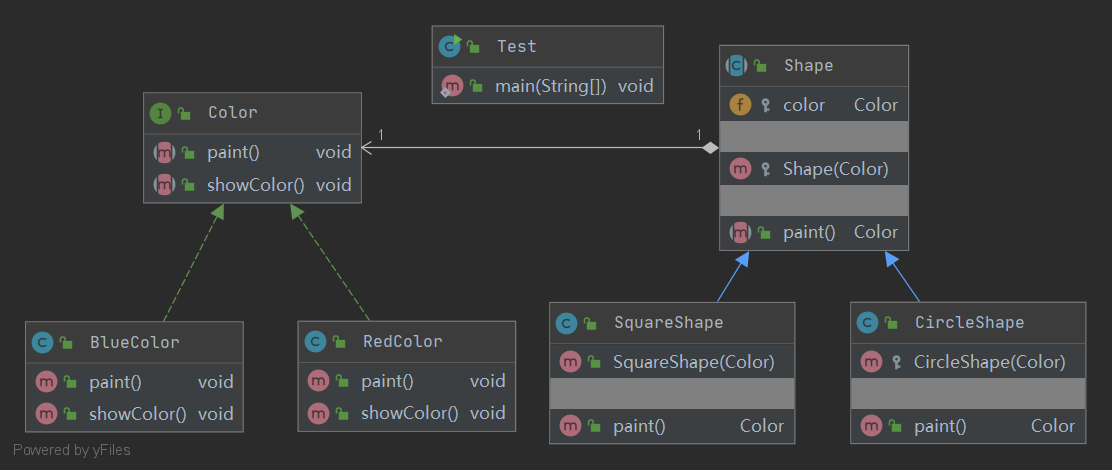
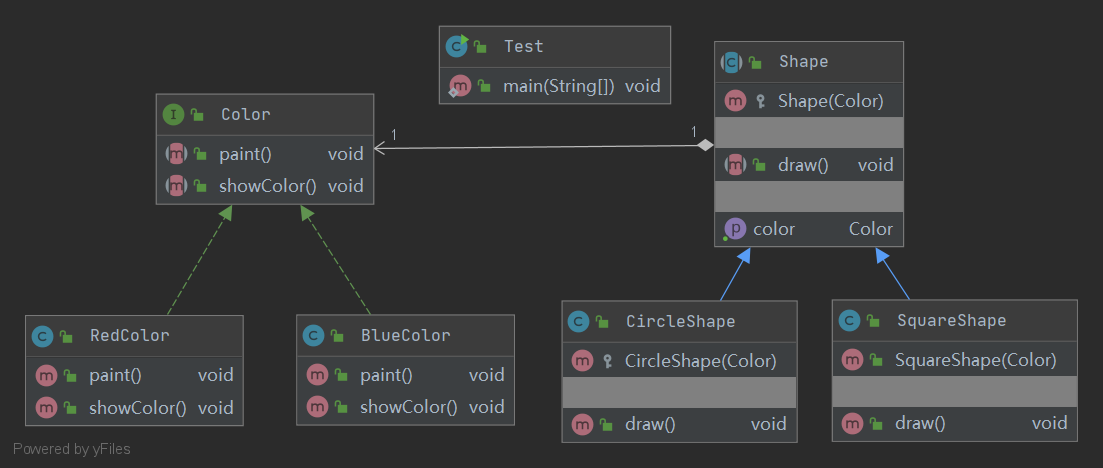
update Bridge 桥接模式

diff --git a/pattern/src/structural/bridge/java/Test.java b/pattern/src/structural/bridge/java/Test.java
@@ -3,12 +3,12 @@ package structural.bridge.java;
 public class Test {
     public static void main(String[] args) {
 //        Shape redCircle = new CircleShape(new RedColor());
-//        redCircle.paint();
+//        redCircle.draw();
 //
 //        Shape blueCircle = new CircleShape(new BlueColor());
-//        blueCircle.paint();
+//        blueCircle.draw();
 //
 //        Shape blueSquare = new SquareShape(new BlueColor());
-//        blueSquare.paint();
+//        blueSquare.draw();
     }
 }

diff --git a/pattern/src/structural/bridge/java/Shape.java b/pattern/src/structural/bridge/java/Shape.java
@@ -1,10 +1,14 @@
 package structural.bridge.java;
 
 public abstract class Shape {
-    protected Color color;
+    private Color color;
     protected Shape(Color color) {
         this.color = color;
     }
 
-    public abstract Color paint();
+    public abstract void draw();
+
+    public Color getColor() {
+        return color;
+    }
 }

diff --git a/pattern/src/structural/bridge/java/CircleShape.java b/pattern/src/structural/bridge/java/CircleShape.java
@@ -6,9 +6,8 @@ public class CircleShape extends Shape {
     }
 
     @Override
-    public Color paint() {
+    public void draw() {
         System.out.print("画一个圆形,");
-        color.paint();
-        return color;
+        getColor().paint();
     }
 }

diff --git a/pattern/src/structural/bridge/java/SquareShape.java b/pattern/src/structural/bridge/java/SquareShape.java
@@ -6,9 +6,8 @@ public class SquareShape extends Shape {
     }
 
     @Override
-    public Color paint() {
+    public void draw() {
         System.out.print("画一个方形,");
-        color.paint();
-        return color;
+        getColor().paint();
     }
 }
